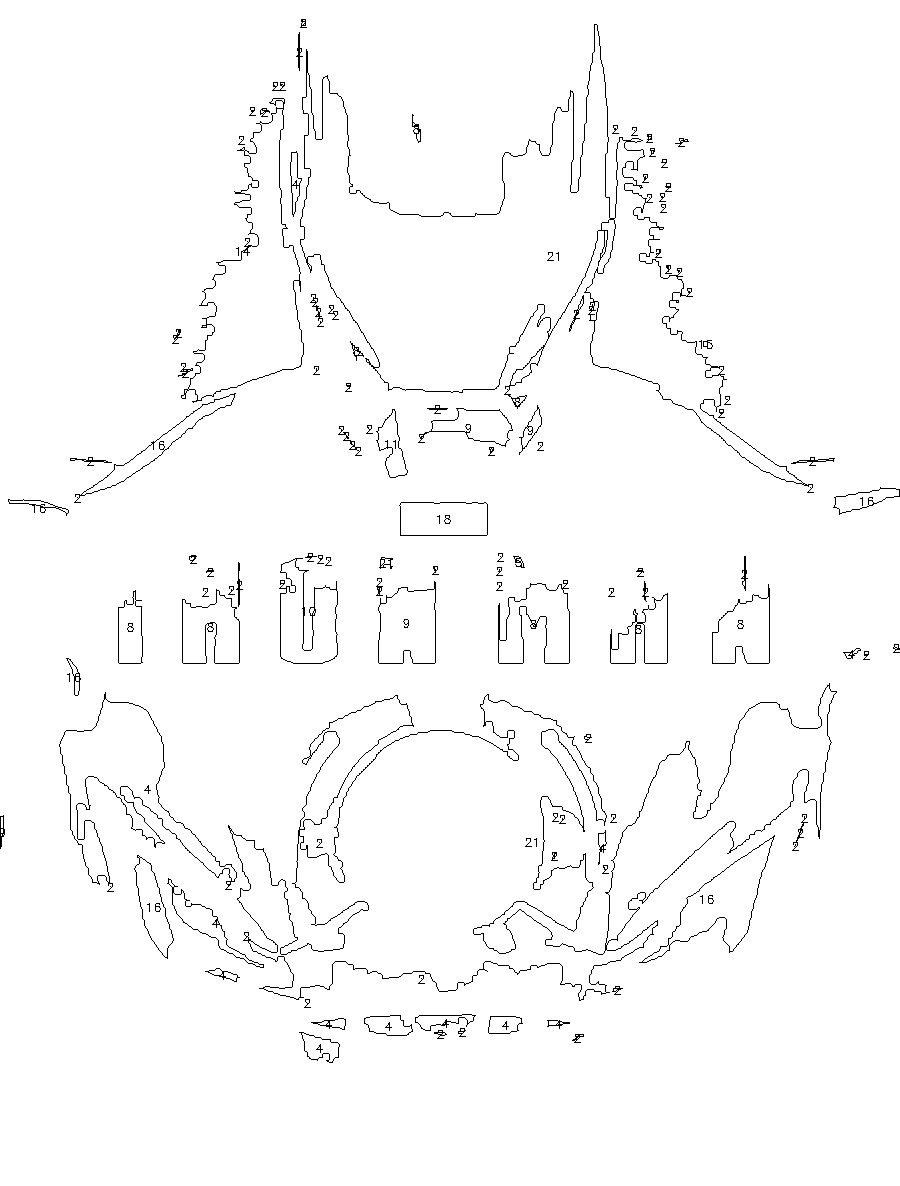
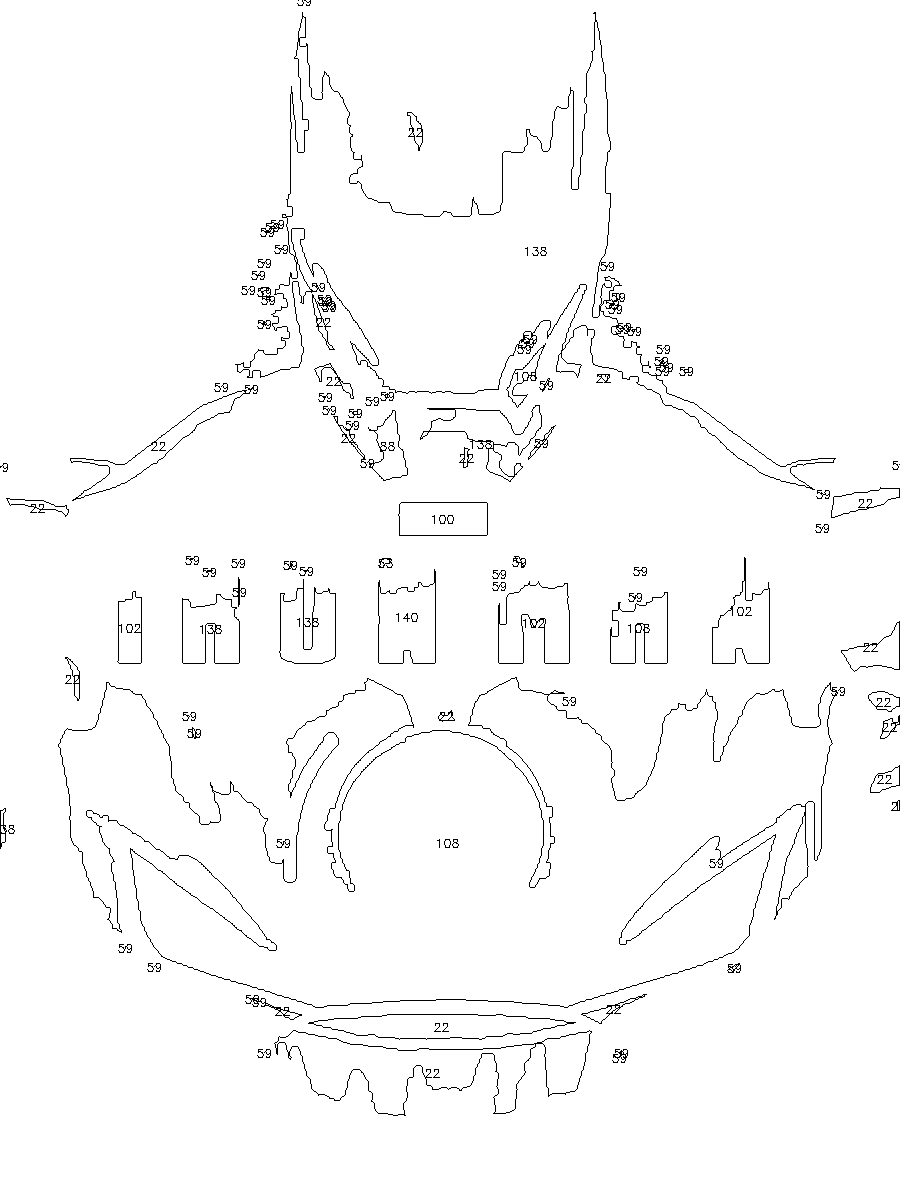
merge jy module

diff --git a/web/views.py b/web/views.py
@@ -50,12 +50,12 @@ def convert():
     # brush.finish()
     
 
-
     # 원본 이미지 불러오기
     img = getImageFromPath(image_path)
 
+
     # 색 일반화
-    image = reducial(img, 64)
+    image = reducial(img, 96)
 
     # 선 그리기
     # image2 = drawLine(image)
@@ -67,27 +67,96 @@ def convert():
     # image3 = cv2.convertScaleAbs(image3)
 
     # 색 추출
-    colorNames, colors = getColorFromImage(image)
+    # colorNames, colors = getColorFromImage(image
+
+
+    colors = """
+FF0000,00FF00,0000FF,
+CD5C5C,7FFFD4,
+00FFFF,E9967A,00FA9A,
+00FFFF,F08080,
+00FF7F,48D1CC,FA8072,
+98FB98,00CED1,
+FF4500,ADFF2F,5F9EA0,
+DC143C,7FFF00,
+708090,B22222,7CFC00,
+E0FFFF,8B0000,
+008000,AFEEEE,C71585,
+90EE90,B0E0E6,
+FFC0CB,9ACD32,B0C4DE,
+FFB6C1,32CD32,
+4682B4,FF69B4,3CB371,
+ADD8E6,FF1493,
+8FBC8F,87CEEB,DB7093,
+228B22,87CEFA,
+BDB76B,2E8B57,00BFFF,
+F0E68C,6B8E23,
+6495ED,EEE8AA,808000,
+4169E1,FAFAD2,
+556B2F,7B68EE,FFFFE0,
+006400,1E90FF,
+FFFACD,66CDAA,0000CD,
+FFFF00,40E0D0,
+00008B,FFD700,20B2AA,
+000080,FFEFD5,
+008B8B,191970,FFE4B5,
+008080,DCDCDC,
+FFDAB9,F0FFF0,D3D3D3,
+FFA07A,F5FFFA,
+C0C0C0,FFA500,F0FFFF,
+A9A9A9,FF8C00,
+F0F8FF,808080,FF7F50,
+F8F8FF,696969,
+FF6347,F5F5F5,2F4F4F,
+FF4500,FFF0F5,
+778899,E6E6FA,FFE4E1,
+CD853F,D8BFD8,
+FAEBD7,D2691E,DDA0DD,
+FFF5EE,800000,
+EE82EE,FFFAFA,8B4513,
+FF00FF,F5F5DC,
+A52A2A,FF00FF,FAF0E6,
+A0522D,DA70D6,
+FDF5E6,8B0000,FFF8DC,
+FFFAF0,DEB887,
+FFEBCD,FFFFF0,D2B48C,
+FFE4E4,BA55D3,
+BC8F8F,FFDEAD,9932CC,
+9370DB,8A2BE2,
+9400D3,8B008B,6A5ACD,
+800080,F5DEB3,
+483D8B,4B0082,B8860B,
+F4A460,DAA520,
+000000,FFFFFF,
+472B09,683B04,432F16,65441C,492902,5D3A0F,
+076C0E,104913,17731D,1F6724,24782A,06B912,1E6723,
+6F0505,4A1010,6B1111,9E0E09,720A06,400603,370D0C,450B09,
+0E0F58,06086D,040695,090A56,1A1A42,14154B""".split(',')
+
+    for idx in range(len(colors)):
+        colors[idx] = tuple(int(colors[idx][i:i+2], 16) for i in (4, 2, 0))
+
+    colorNames = [ str(i+1) for i in range(len(colors)) ]
+
     print(f'색 {len(colorNames)}개')
+
 
     # 라벨 추출
     img_lab, lab = getImgLabelFromImage(colors, image)
 
-
     # contour 추출
     contours = getContoursFromImage(image)
-
 
     # 결과 이미지 백지화
     result_img = makeWhiteFromImage(image)
 
     # 결과이미지 렌더링
+    # image를 넣으면 원본이미지에 그려주고, result_img에 넣으면 백지에 그려줌
     # result_img = setColorNumberFromContours(image, contours, img_lab, lab, colorNames)
     result_img = setColorNumberFromContours(result_img, contours, img_lab, lab, colorNames)
 
     cv2.imwrite(f'./web/static/render_image/result_{image_name}', result_img)
     image_name = 'result_'+image_name
-    
 
 
     return jsonify(img_name=image_name, area_arr=area_arr)
